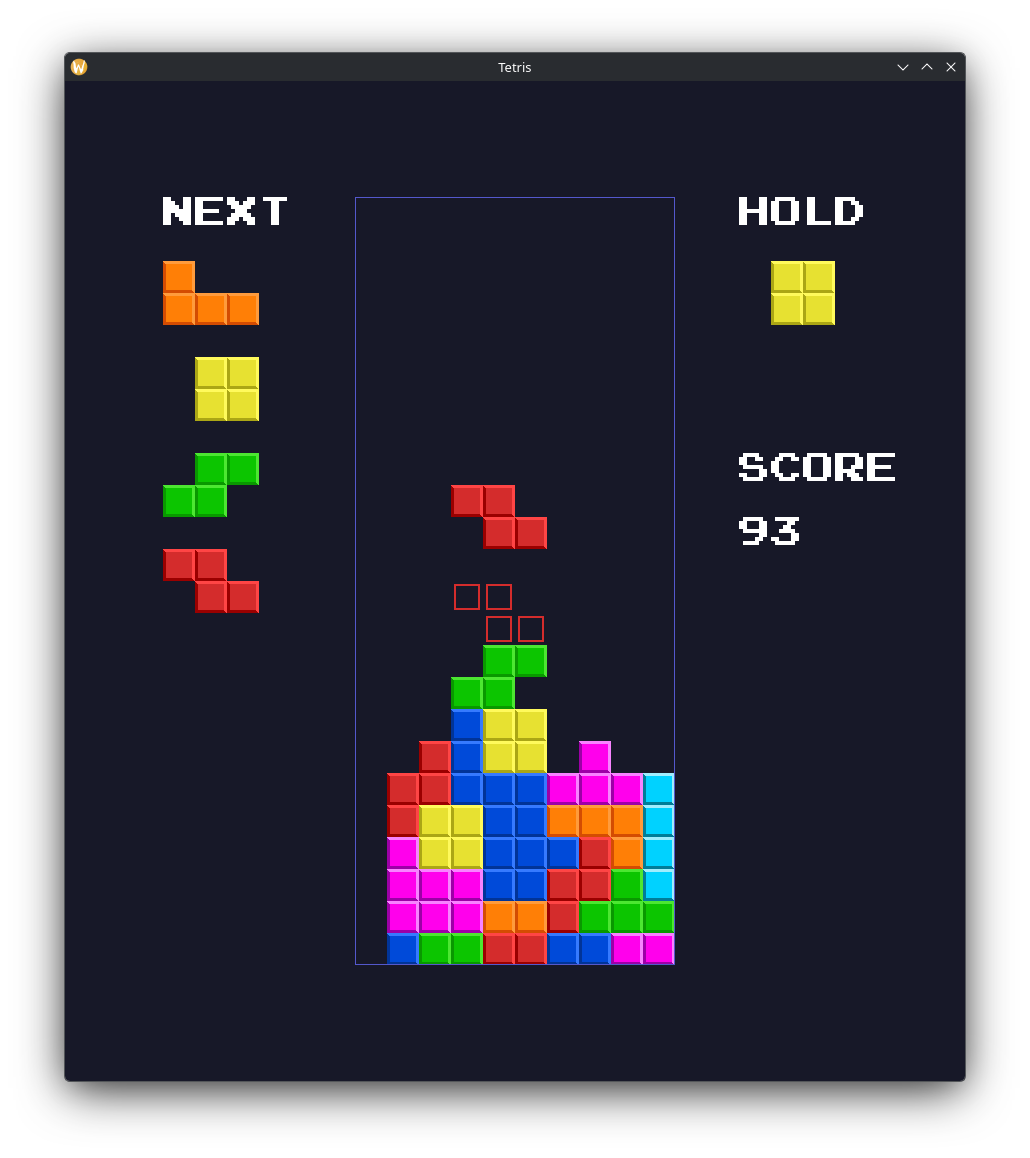
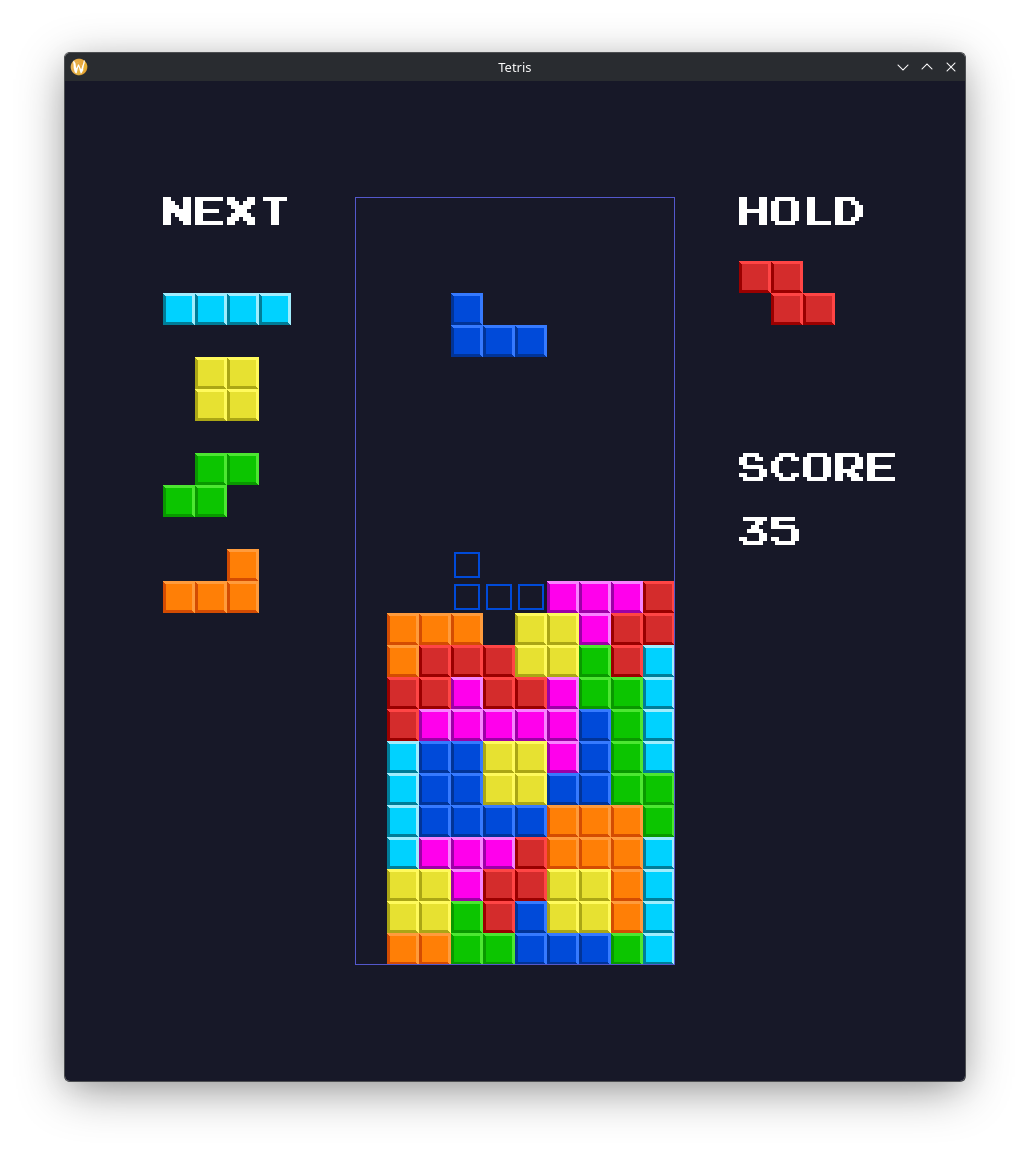
fixed L and J piece offsets being in reverse
updated README image

diff --git a/src/Piece.cpp b/src/Piece.cpp
@@ -11,8 +11,8 @@ Piece::Piece(Type type, Point pos)
       {{-1, 0}, {0, 0}, {0, -1}, {1, 0}},  // T
       {{-1, 0}, {0, 0}, {0, -1}, {1, -1}}, // S
       {{-1, -1}, {0, -1}, {0, 0}, {1, 0}}, // Z
-      {{-1, -1}, {-1, 0}, {0, 0}, {1, 0}}, // J
-      {{-1, 0}, {0, 0}, {1, 0}, {1, -1}},  // L
+      {{-1, 0}, {0, 0}, {1, 0}, {1, -1}},  // J
+      {{-1, -1}, {-1, 0}, {0, 0}, {1, 0}}, // L
   };
 
   for (size_t i = 0; i < 4; ++i)
